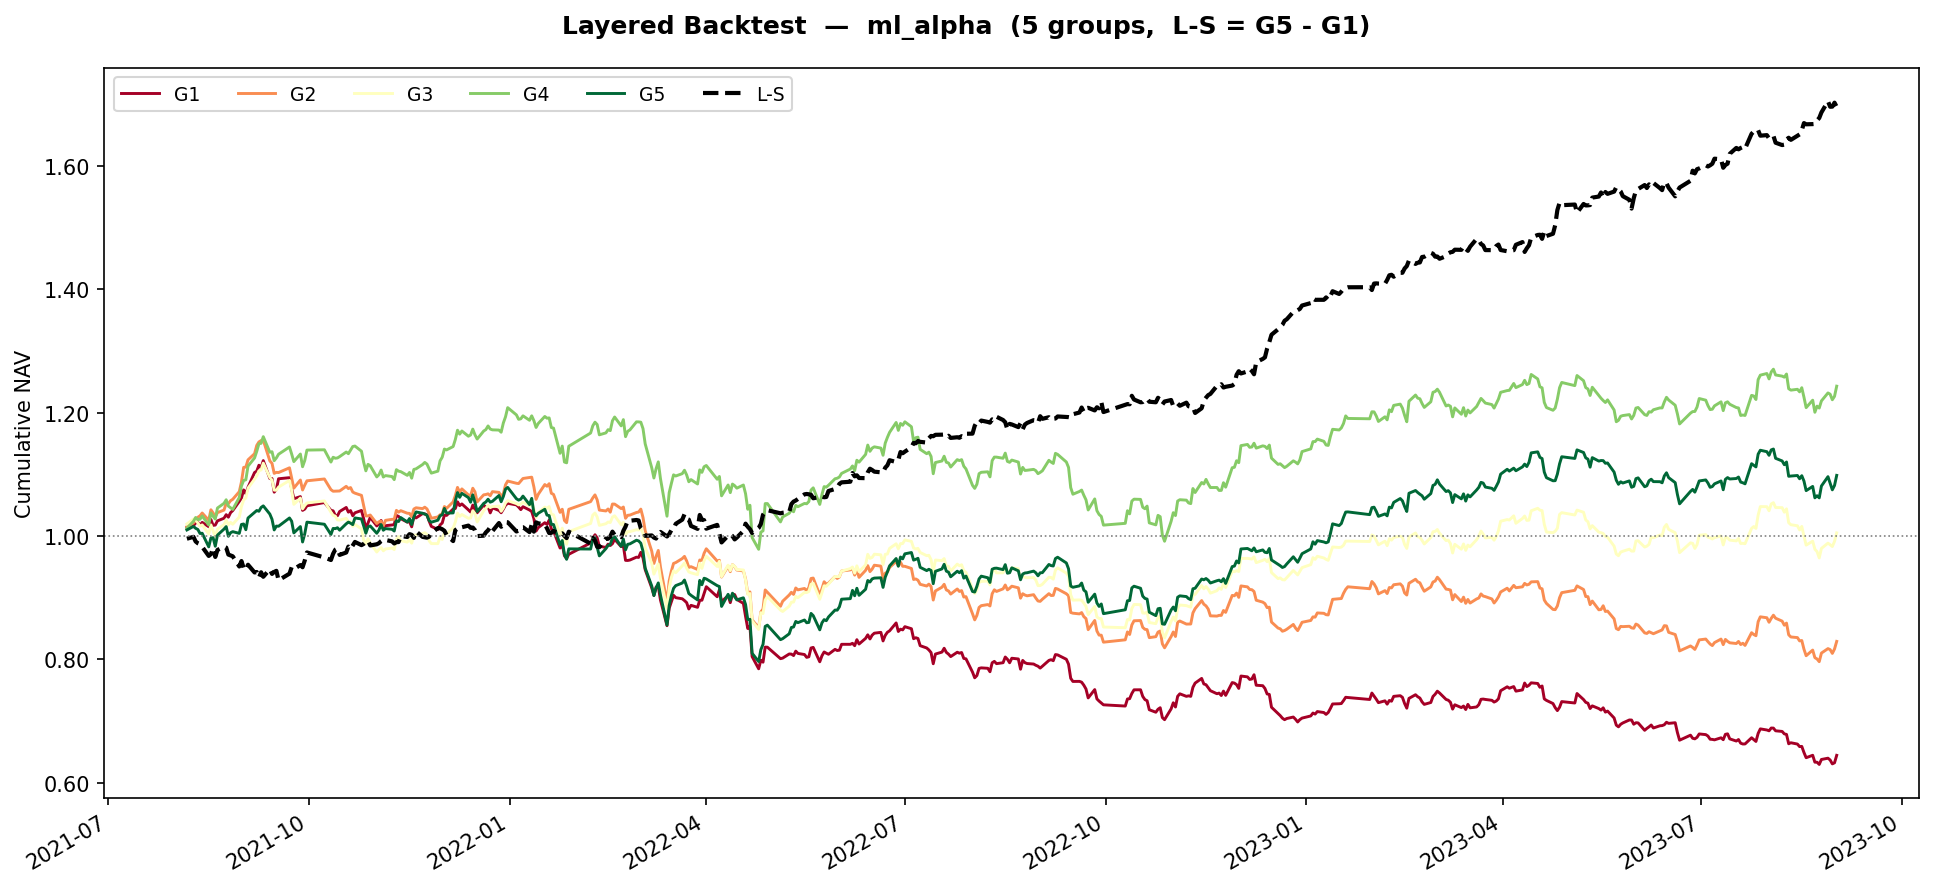
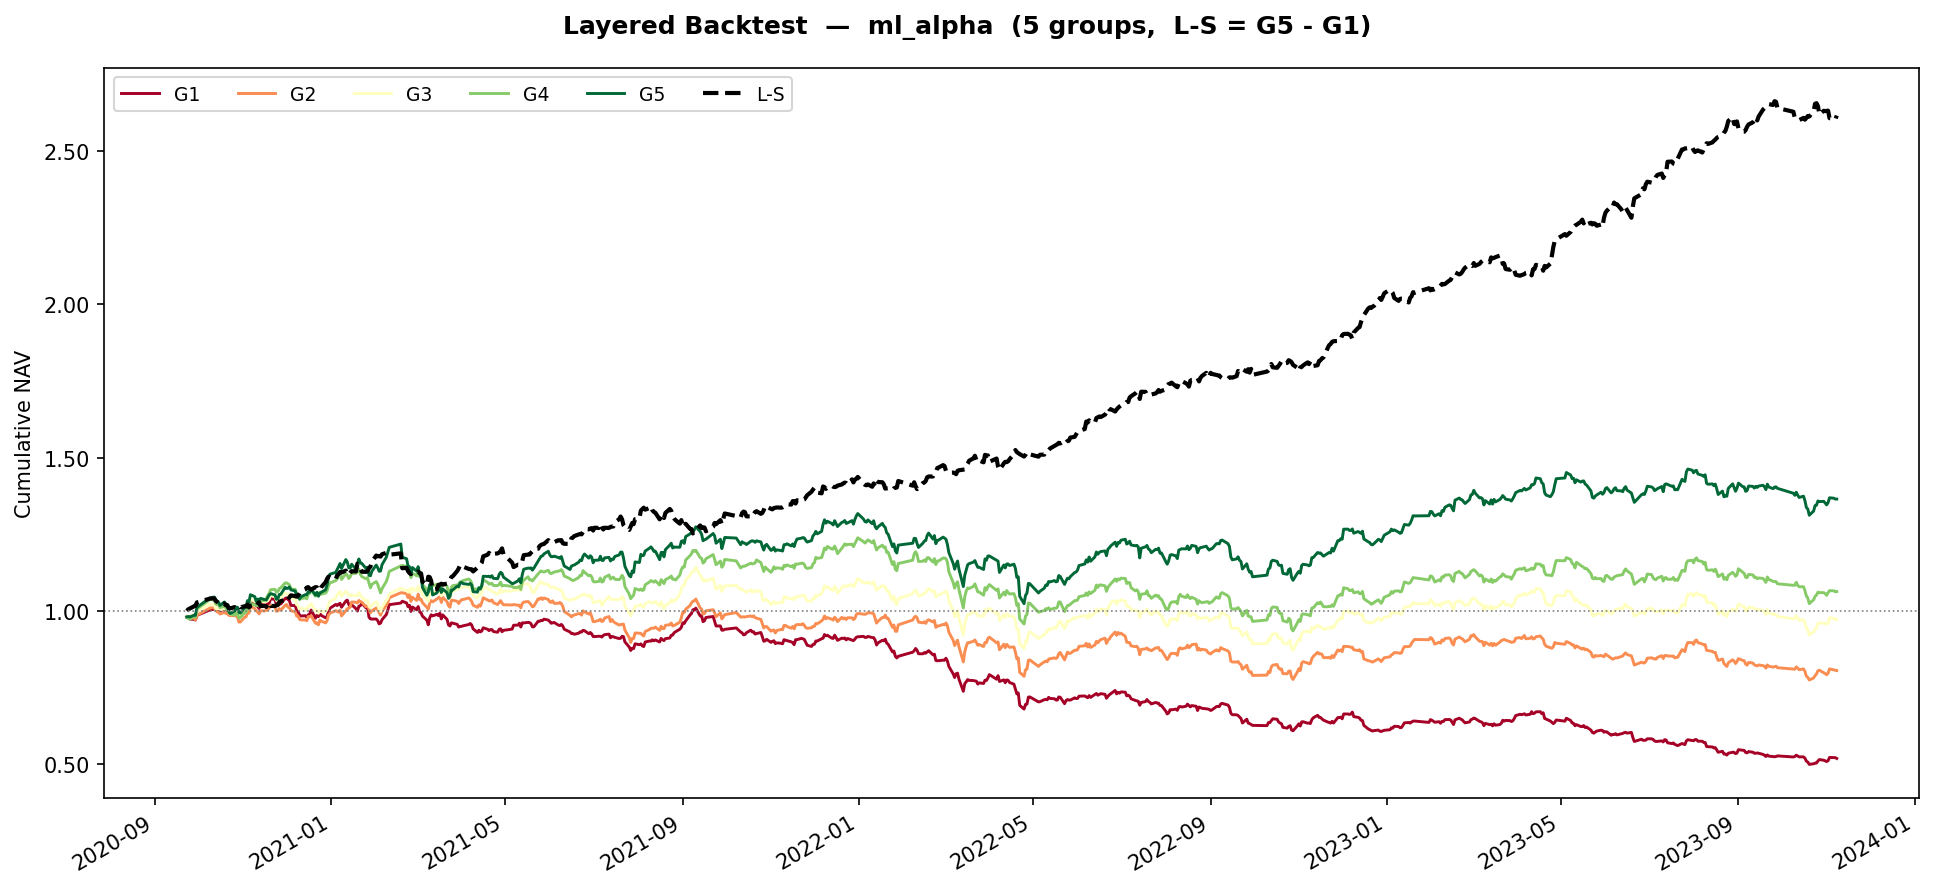
upd: 更新了机器学习参数，防止过拟合

diff --git a/src/lgbm_model.py b/src/lgbm_model.py
@@ -54,9 +54,9 @@ class AlphaLGBM:
         self.model = lgb.LGBMRegressor(
             objective="regression_l1",
             n_estimators=1000,
-            learning_rate=0.005,
-            max_depth=6,
-            num_leaves=31,
+            learning_rate=0.01,
+            max_depth=4,
+            num_leaves=15,
             subsample=0.8,
             subsample_freq=1,
             colsample_bytree=0.8,
@@ -89,7 +89,7 @@ class AlphaLGBM:
         self.feature_names = X_train.columns.tolist()
 
         callbacks = [
-            lgb.early_stopping(stopping_rounds=200, verbose=False),
+            lgb.early_stopping(stopping_rounds=100, verbose=False),
             lgb.log_evaluation(period=-1),
         ]
 

diff --git a/ml_analyze_main.py b/ml_analyze_main.py
@@ -55,9 +55,9 @@ PLOTS_DIR = pathlib.Path("plots")
 RESULT_FILE = pathlib.Path("result_ml.txt")
 
 FORWARD_DAYS: int = 1
-TRAIN_MONTHS: int = 24
-VAL_MONTHS: int = 6
-TEST_MONTHS: int = 6
+TRAIN_MONTHS: int = 16
+VAL_MONTHS: int = 4
+TEST_MONTHS: int = 4
 EMBARGO_DAYS: int = 1        # must be >= FORWARD_DAYS to prevent target leakage
 SHAP_SAMPLE_SIZE: int = 300  # number of rows to subsample for SHAP (speed)
 

diff --git a/GUIDE.md b/GUIDE.md
@@ -522,9 +522,9 @@
   | 变量 | 默认值 | 说明 |
   |------|--------|------|
   | `FORWARD_DAYS` | `1` | 未来收益率天数 |
-  | `TRAIN_MONTHS` | `24` | 训练窗口（月） |
-  | `VAL_MONTHS` | `6` | 验证窗口（月） |
-  | `TEST_MONTHS` | `6` | 测试窗口（月） |
+  | `TRAIN_MONTHS` | `16` | 训练窗口（月） |
+  | `VAL_MONTHS` | `4` | 验证窗口（月） |
+  | `TEST_MONTHS` | `4` | 测试窗口（月） |
   | `EMBARGO_DAYS` | `1` | 静默期天数（需 ≥ FORWARD_DAYS） |
   | `SHAP_SAMPLE_SIZE` | `300` | SHAP 分析采样行数 |
 
